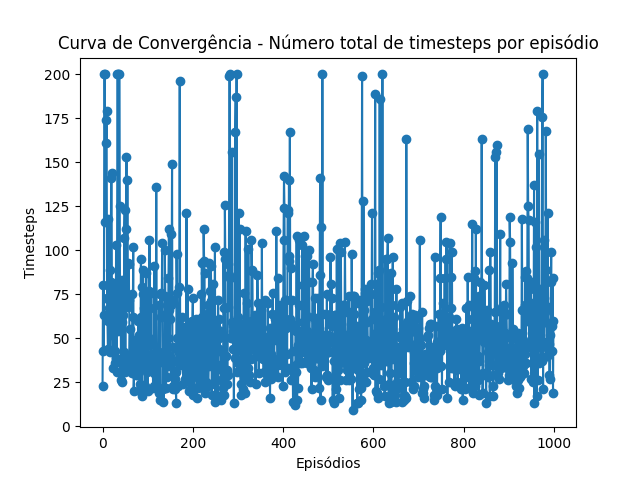
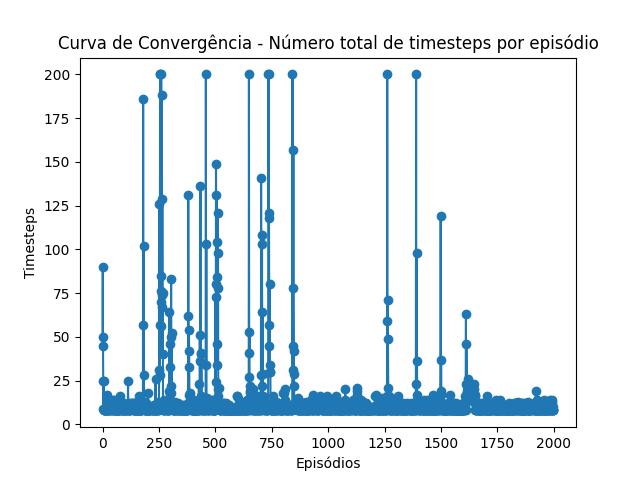
Main impl

diff --git a/main.py b/main.py
@@ -24,7 +24,7 @@ INITIAL_OBJECT_POS = (2,3)
 ACTIONS = ['up', 'right', 'down', 'left', 'stay']
 TERMINAL_STATE_INDEX = {0: [2, 3, 4]}
 
-q_values = np.zeros((ENVIRONMENT_ROWS, ENVIRONMENT_COLUMNS, 5))
+q_values = np.zeros((ENVIRONMENT_ROWS, ENVIRONMENT_COLUMNS, 4))
 
 # Define todos os lugares em que o agente nao pode se mover
 walls = {}
@@ -40,31 +40,30 @@ walls[5] = [6]
 # 0 - objeto nao esta anexado / 1 - objeto esta anexado
 rewards = np.full((ENVIRONMENT_ROWS, ENVIRONMENT_COLUMNS, 2), -100.)
 
-# Quando o objeto nao esta selecionado
-# Adiciona nas duas laterais o valor de recompensa de 50
-rewards[2, 2, 0] = 50
-rewards[2, 4, 0] = 50
-
-# Quando o objeto esta selecionado, adiciona 100 nos campos da base
-rewards[0, 2, 1] = 100
-rewards[0, 3, 1] = 100
-rewards[0, 4, 1] = 100
-
 # Define os espacos possiveis de caminhar com uma recompensa de -1
 aisles = {}
-aisles[0] = [i for i in range(0, 2)]
-aisles[0].extend([i for i in range(5, 7)])
+aisles[0] = [i for i in range(0, 7)]
 aisles[1] = [i for i in range(0, 3)]
 aisles[1].extend([i for i in range(4, 7)])
-aisles[2] = [i for i in range(0, 3)]
-aisles[2].extend([i for i in range(4, 7)])
+aisles[2] = [i for i in range(0, 7)]
 aisles[3] = [i for i in range(0, 7)]
 aisles[4] = [2]
 aisles[5] = [i for i in range(0, 6)]
 
 for row_index in range(0, 6):
     for col_index in aisles[row_index]:
-        rewards[row_index, col_index] = -1
+        for i in range(2):
+            rewards[row_index, col_index, i] = -1
+
+# Quando o objeto nao esta selecionado
+# Adiciona nas duas laterais o valor de recompensa de 50
+rewards[2, 2, 0] = 40
+rewards[2, 4, 0] = 40
+
+# Quando o objeto esta selecionado, adiciona 100 nos campos da base
+rewards[0, 2, 1] = 100
+rewards[0, 3, 1] = 100
+rewards[0, 4, 1] = 100
 
 def visualize_environment(
     current_row_position, current_col_position,
@@ -124,7 +123,9 @@ def get_next_location(current_row_index, current_column_index, action_index):
     new_row_index = current_row_index
     new_column_index = current_column_index
 
-    if ACTIONS[action_index] == 'up' and current_row_index > 0:
+    if ACTIONS[action_index] == 'stay':
+        return new_row_index, new_column_index
+    elif ACTIONS[action_index] == 'up' and current_row_index > 0:
         new_row_index -= 1
     elif ACTIONS[action_index] == 'right' and current_column_index < ENVIRONMENT_COLUMNS - 1:
         new_column_index += 1
@@ -147,7 +148,7 @@ def plot_convergence_curve(convergence_data):
     plt.savefig('Curva de Convergência.png')
 
 def main():
-    epsilon = 0.3 # e
+    epsilon = 0.9 # e
     discount_factor = 0.9 # γ - gamma
     learning_rate = 0.9 # a
     max_timesteps_per_episode = 200
@@ -156,7 +157,7 @@ def main():
 
     convergence_curve = {}
 
-    for episode in range(10):
+    for episode in range(2000):
         row_index, column_index = INITIAL_AGENT_POS
         object_row_index, object_column_index = INITIAL_OBJECT_POS
 
@@ -181,16 +182,25 @@ def main():
 
             row_index, column_index = get_next_location(row_index, column_index, action_index)
 
+            # Adiciona uma recompensa de -10 para casos invalidos
+            reward = -100
+
+            # Caso o objeto esteja anexado, o objeto passa a ser o ponto de referencia
+            # Para obter os valores
             if object_attached > 0:
                 object_row_index, object_column_index = get_next_location(object_row_index, object_column_index, action_index)
-            
-            reward = rewards[row_index, column_index, object_attached]
+                if old_obj_row_index != object_row_index or old_obj_col_index != object_column_index:
+                    reward = rewards[object_row_index, object_column_index, object_attached]
+            else:
+                # Caso a posicao de destino nao seja a mesma de origem
+                if old_row_index != row_index or old_column_index != column_index:
+                    reward = rewards[row_index, column_index, object_attached]
             
             old_q_value = q_values[old_row_index, old_column_index, action_index]
+            max_next_state = np.max(q_values[row_index, column_index])
 
             # Calculo do Epsilon greedy strategy
-            temporal_difference = reward + ((discount_factor * np.max(q_values[row_index, column_index])) - old_q_value)
-            new_q_value = old_q_value + (learning_rate * temporal_difference)
+            new_q_value = old_q_value + learning_rate * (reward + discount_factor * max_next_state - old_q_value)
 
             q_values[old_row_index, old_column_index, action_index] = new_q_value
 
@@ -222,8 +232,8 @@ def main():
         convergence_curve[episode] = timesteps
     
     end_time = time.time()
-    print('Treinamento completo em {0}'.format(end_time - start_time))
     plot_convergence_curve(convergence_curve)
+    print('Treinamento completo em {0}'.format(end_time - start_time))
 
 if __name__ == "__main__":
     main()

diff --git a/README.md b/README.md
@@ -17,25 +17,10 @@ presentes no MDP. Inclua na contagem os estados não-válidos;
     R.:
 
     1. Lista de estados do agente
-
     1. Posição
-    2. Direção
     3. Agarrado ao objeto
-    4. Posição do objeto
-    5. Direção do objeto
 
-    2. Modelagem de Estados do Agente
-
-    S = {
-        (1, 1), (1, 2), (1, 3), (1, 4), (1, 5), (1, 6), (1, 7),
-        (2, 1), (2, 2), (2, 3), (2, 4), (2, 5), (2, 6), (2, 7),
-        (3, 1), (3, 2), (3, 3), (3, 4), (3, 5), (3, 6), (3, 7),
-        (4, 1), (4, 2), (4, 3), (4, 4), (4, 5), (4, 6), (4, 7),
-        (5, 1), (5, 2), (5, 3), (5, 4), (5, 5), (5, 6), (5, 7),
-        (6, 1), (6, 2), (6, 3), (6, 4), (6, 5), (6, 6), (6, 7)
-    }
-
-    3. Total de Estados possíveis: 6 (linhas) X 7 (colunas)
+    3. Total de Estados possíveis: 
 
     (b) Apresente a modelagem das ações que o agente pode executar
     R.:
@@ -49,7 +34,7 @@ presentes no MDP. Inclua na contagem os estados não-válidos;
     5. Permanecer na mesma célula
 
     (c) Apresente a modelagem da função de recompensa, com as situações em que o agente é recompensado bem como a magnitude da recompensa. Justifique as suas escolhas.
-    R.: O objetivo principal é agarrar o objeto e chegar a base na quantidade mínima de passos.
+    R.: 
 
 
 2. Configuração dos Experimentos
